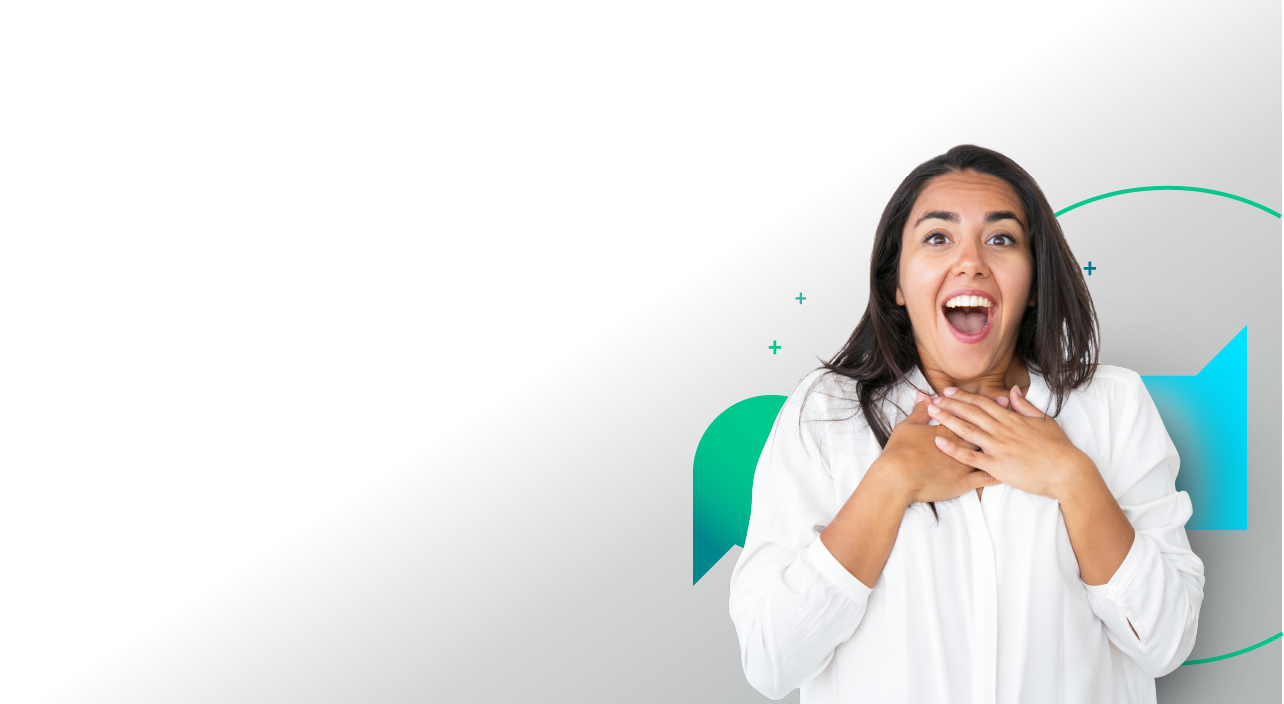
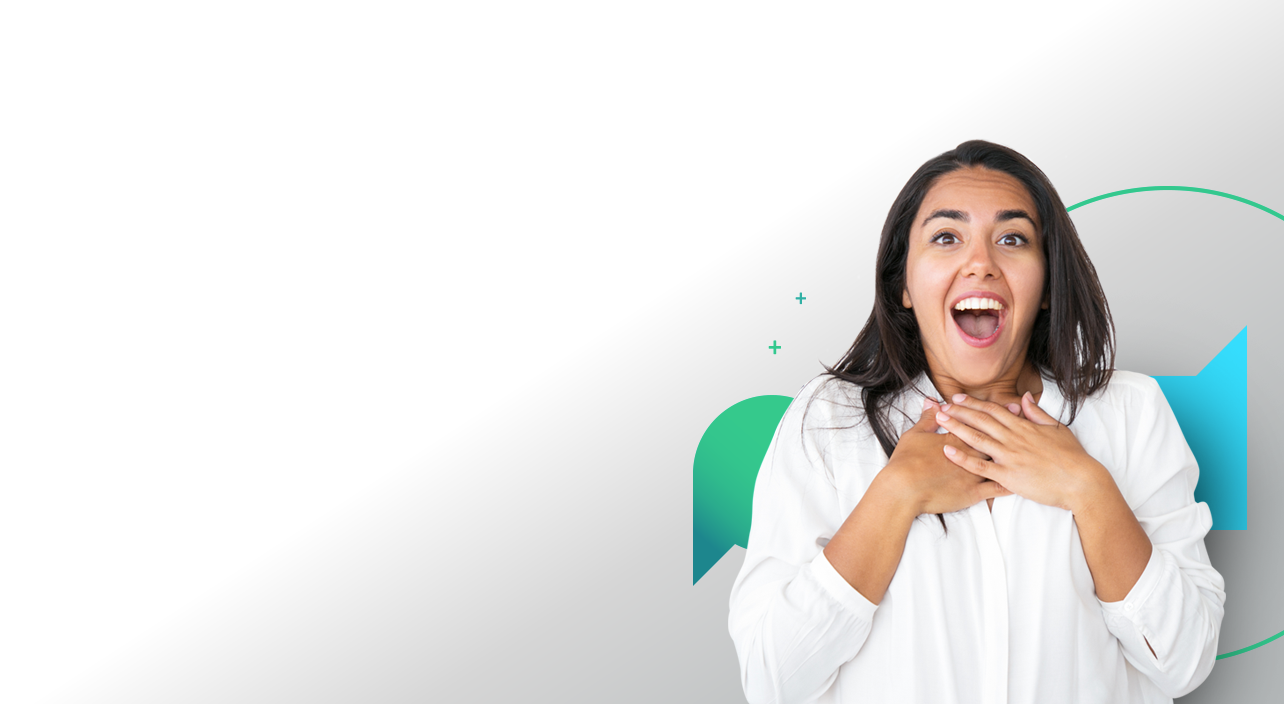
ssss

Changed region(s): [[0.5296, 0.0625, 1.0, 1.0], [0.5607, 0.875, 0.5919, 0.9375]]

diff --git a/scss/_custom-styles.scss b/scss/_custom-styles.scss
@@ -4,10 +4,12 @@
 // Img slider home desktop
   $img-slider-1 : url(../img/slider-1.png);
   $img-slider-2 : url(../img/slider-2.png);
+  $img-slider-3 : url(../img/slider-3.png);
 
 // Img slider home Movil
   $img-slider-1-m : url(../img/slider-1-m.png);
   $img-slider-2-m : url(../img/slider-2-m.png);
+  $img-slider-3-m : url(../img/slider-3-m.png);
 // background section-phone desktop
   $img-background-phone : url(../img/background-section-phone.svg);
 // background section-phone movil
@@ -87,6 +89,12 @@ p{
 }
 #img-home-slider-2{
   background-image: $img-slider-2;
+  height: 100vh;
+  width: 100vw;
+  background-size: cover;
+}
+#img-home-slider-3{
+  background-image: $img-slider-3;
   height: 100vh;
   width: 100vw;
   background-size: cover;
@@ -381,6 +389,12 @@ a[aria-expanded=true] h6 {
     }
     #img-home-slider-2{
       background-image: $img-slider-2-m;
+      height: 100vh;
+      width: 100vw;
+      background-size: cover;
+    }
+    #img-home-slider-3{
+      background-image: $img-slider-3-m;
       height: 100vh;
       width: 100vw;
       background-size: cover;

diff --git a/css/GoFono.css b/css/GoFono.css
@@ -19649,6 +19649,13 @@ p {
   background-size: cover;
 }
 
+#img-home-slider-3 {
+  background-image: url(../img/slider-3.png);
+  height: 100vh;
+  width: 100vw;
+  background-size: cover;
+}
+
 #img-background-phone {
   background-image: url(../img/background-section-phone.svg);
   background-size: cover;
@@ -19985,6 +19992,13 @@ a[aria-expanded=true] h6 {
 
   #img-home-slider-2 {
     background-image: url(../img/slider-2-m.png);
+    height: 100vh;
+    width: 100vw;
+    background-size: cover;
+  }
+
+  #img-home-slider-3 {
+    background-image: url(../img/slider-3-m.png);
     height: 100vh;
     width: 100vw;
     background-size: cover;

diff --git a/index.html b/index.html
@@ -54,6 +54,7 @@
       <div class="owl-carousel carrusel-desktop-home">
         <div id="img-home-slider-1"></div>
         <div id="img-home-slider-2"></div>
+        <div id="img-home-slider-3"></div>
       </div>
     </section>
     <section id="section-offer"> 
